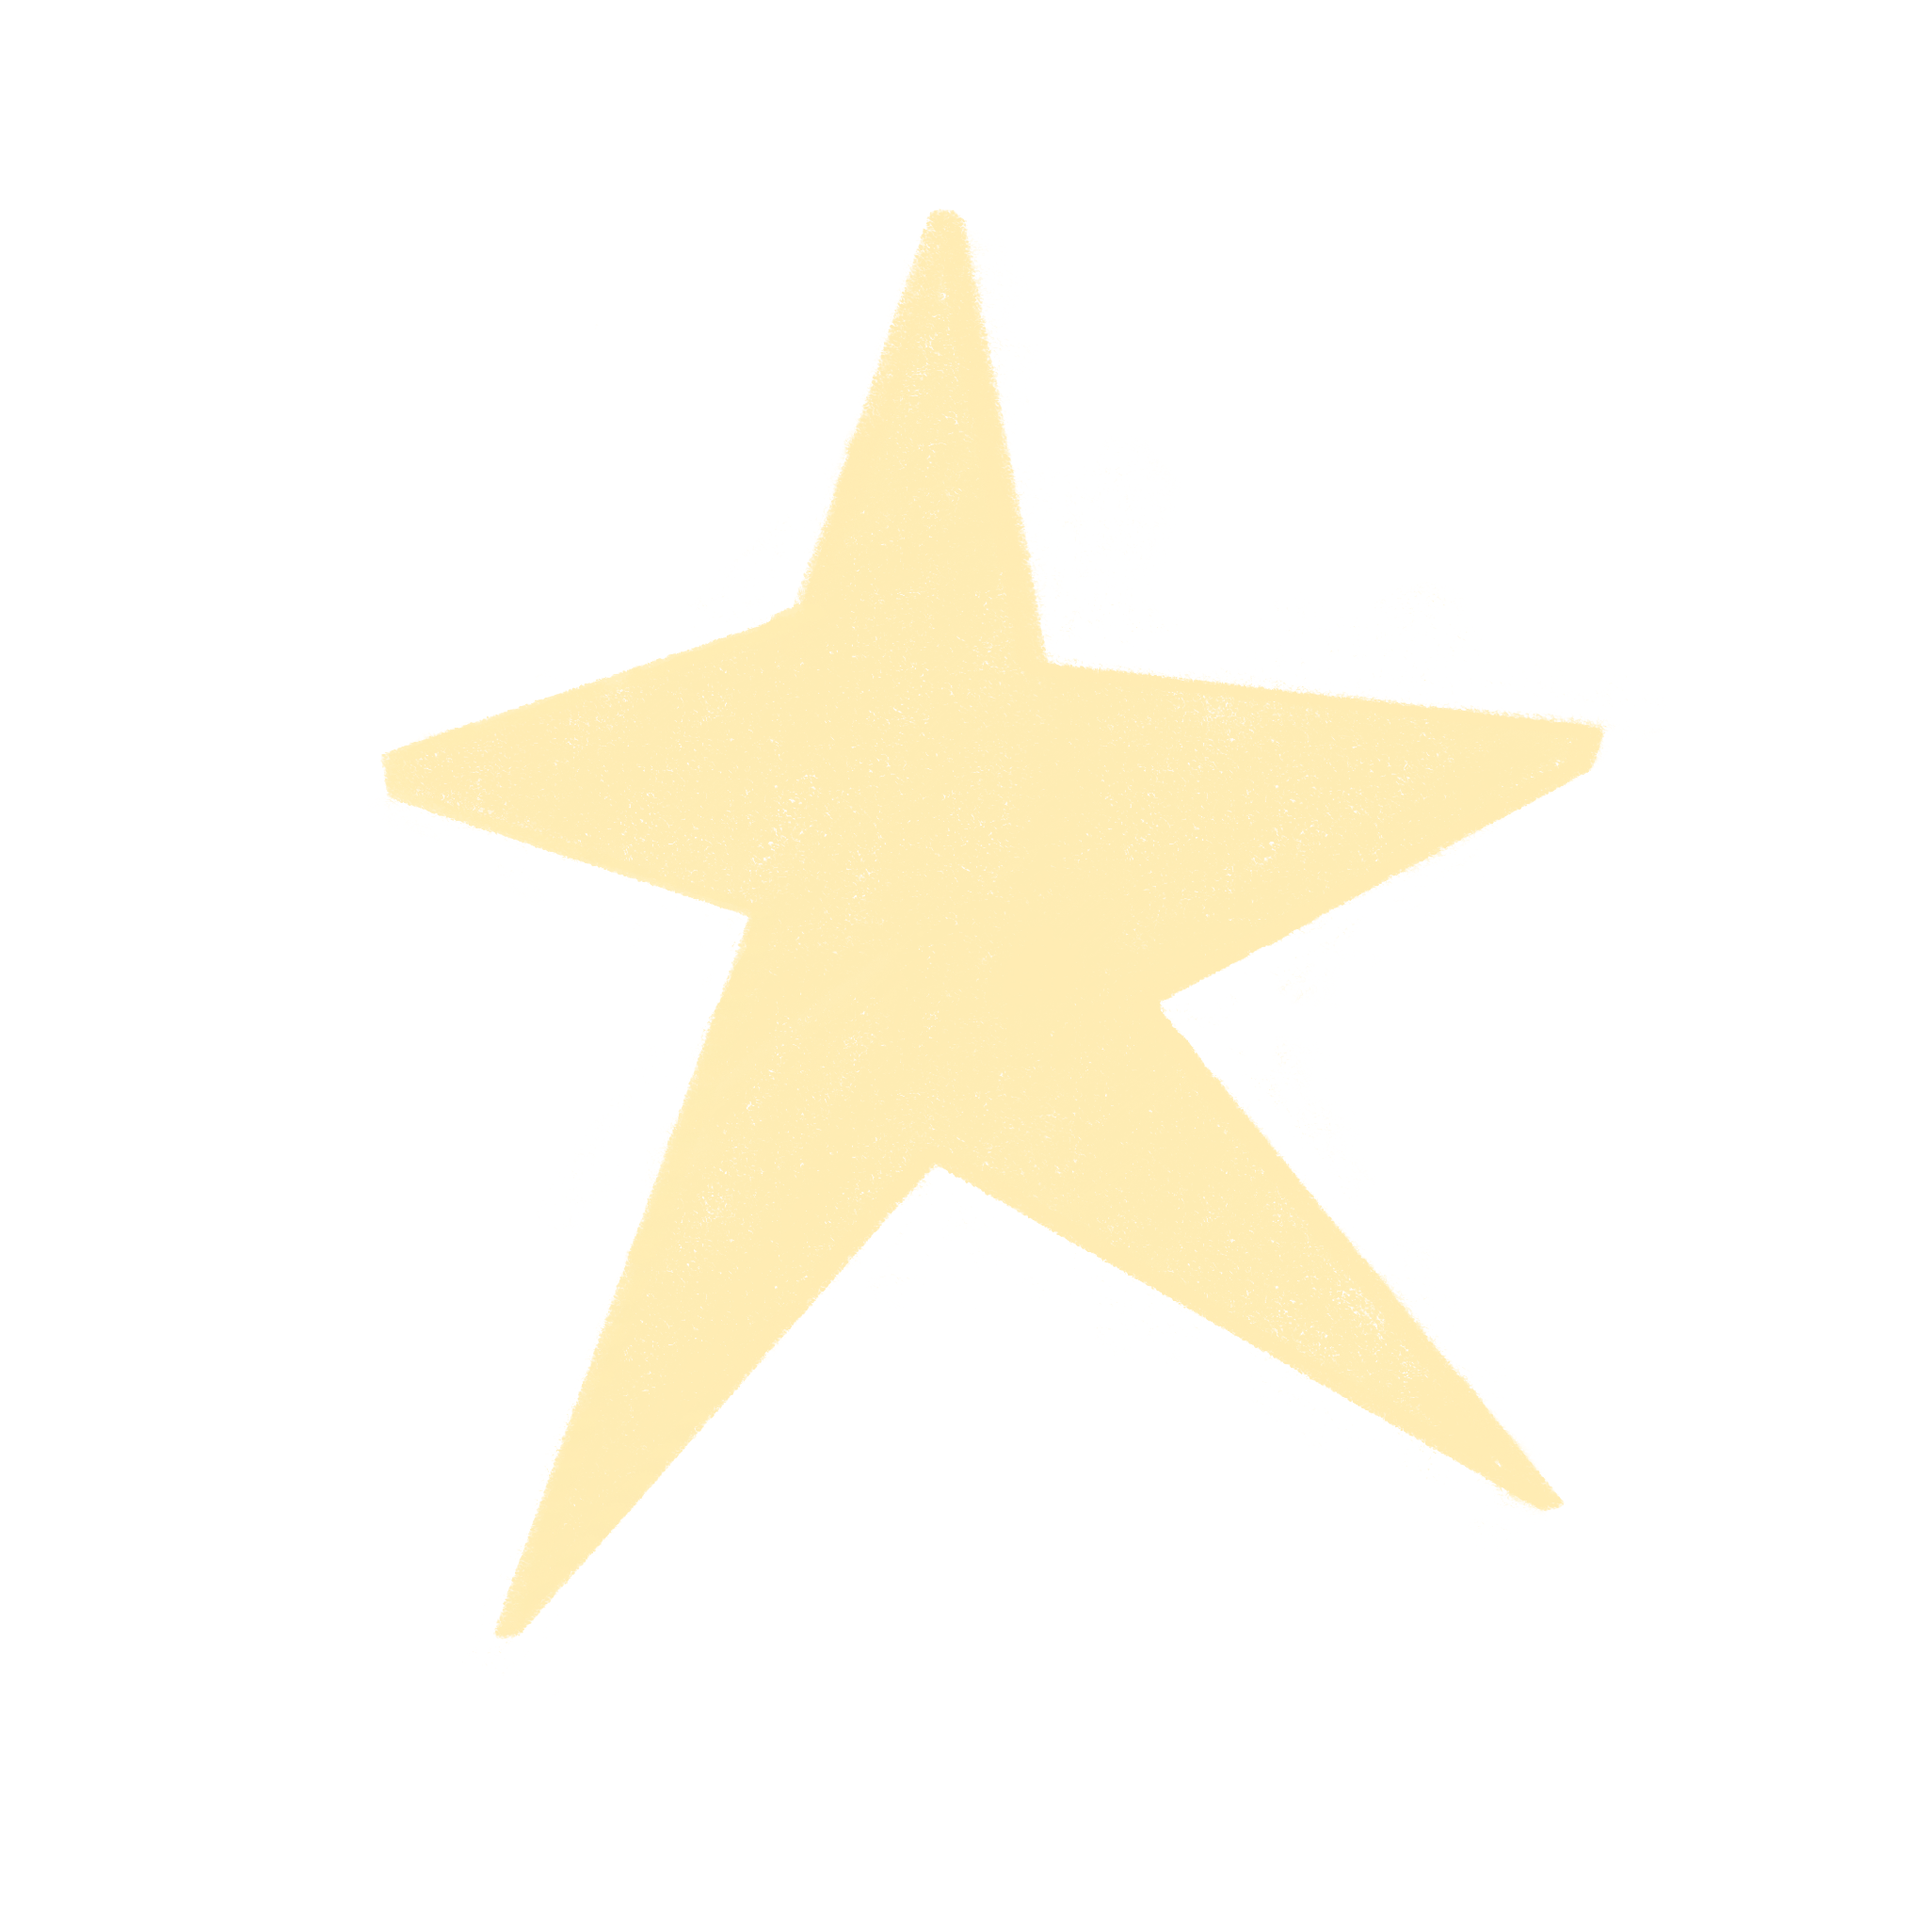
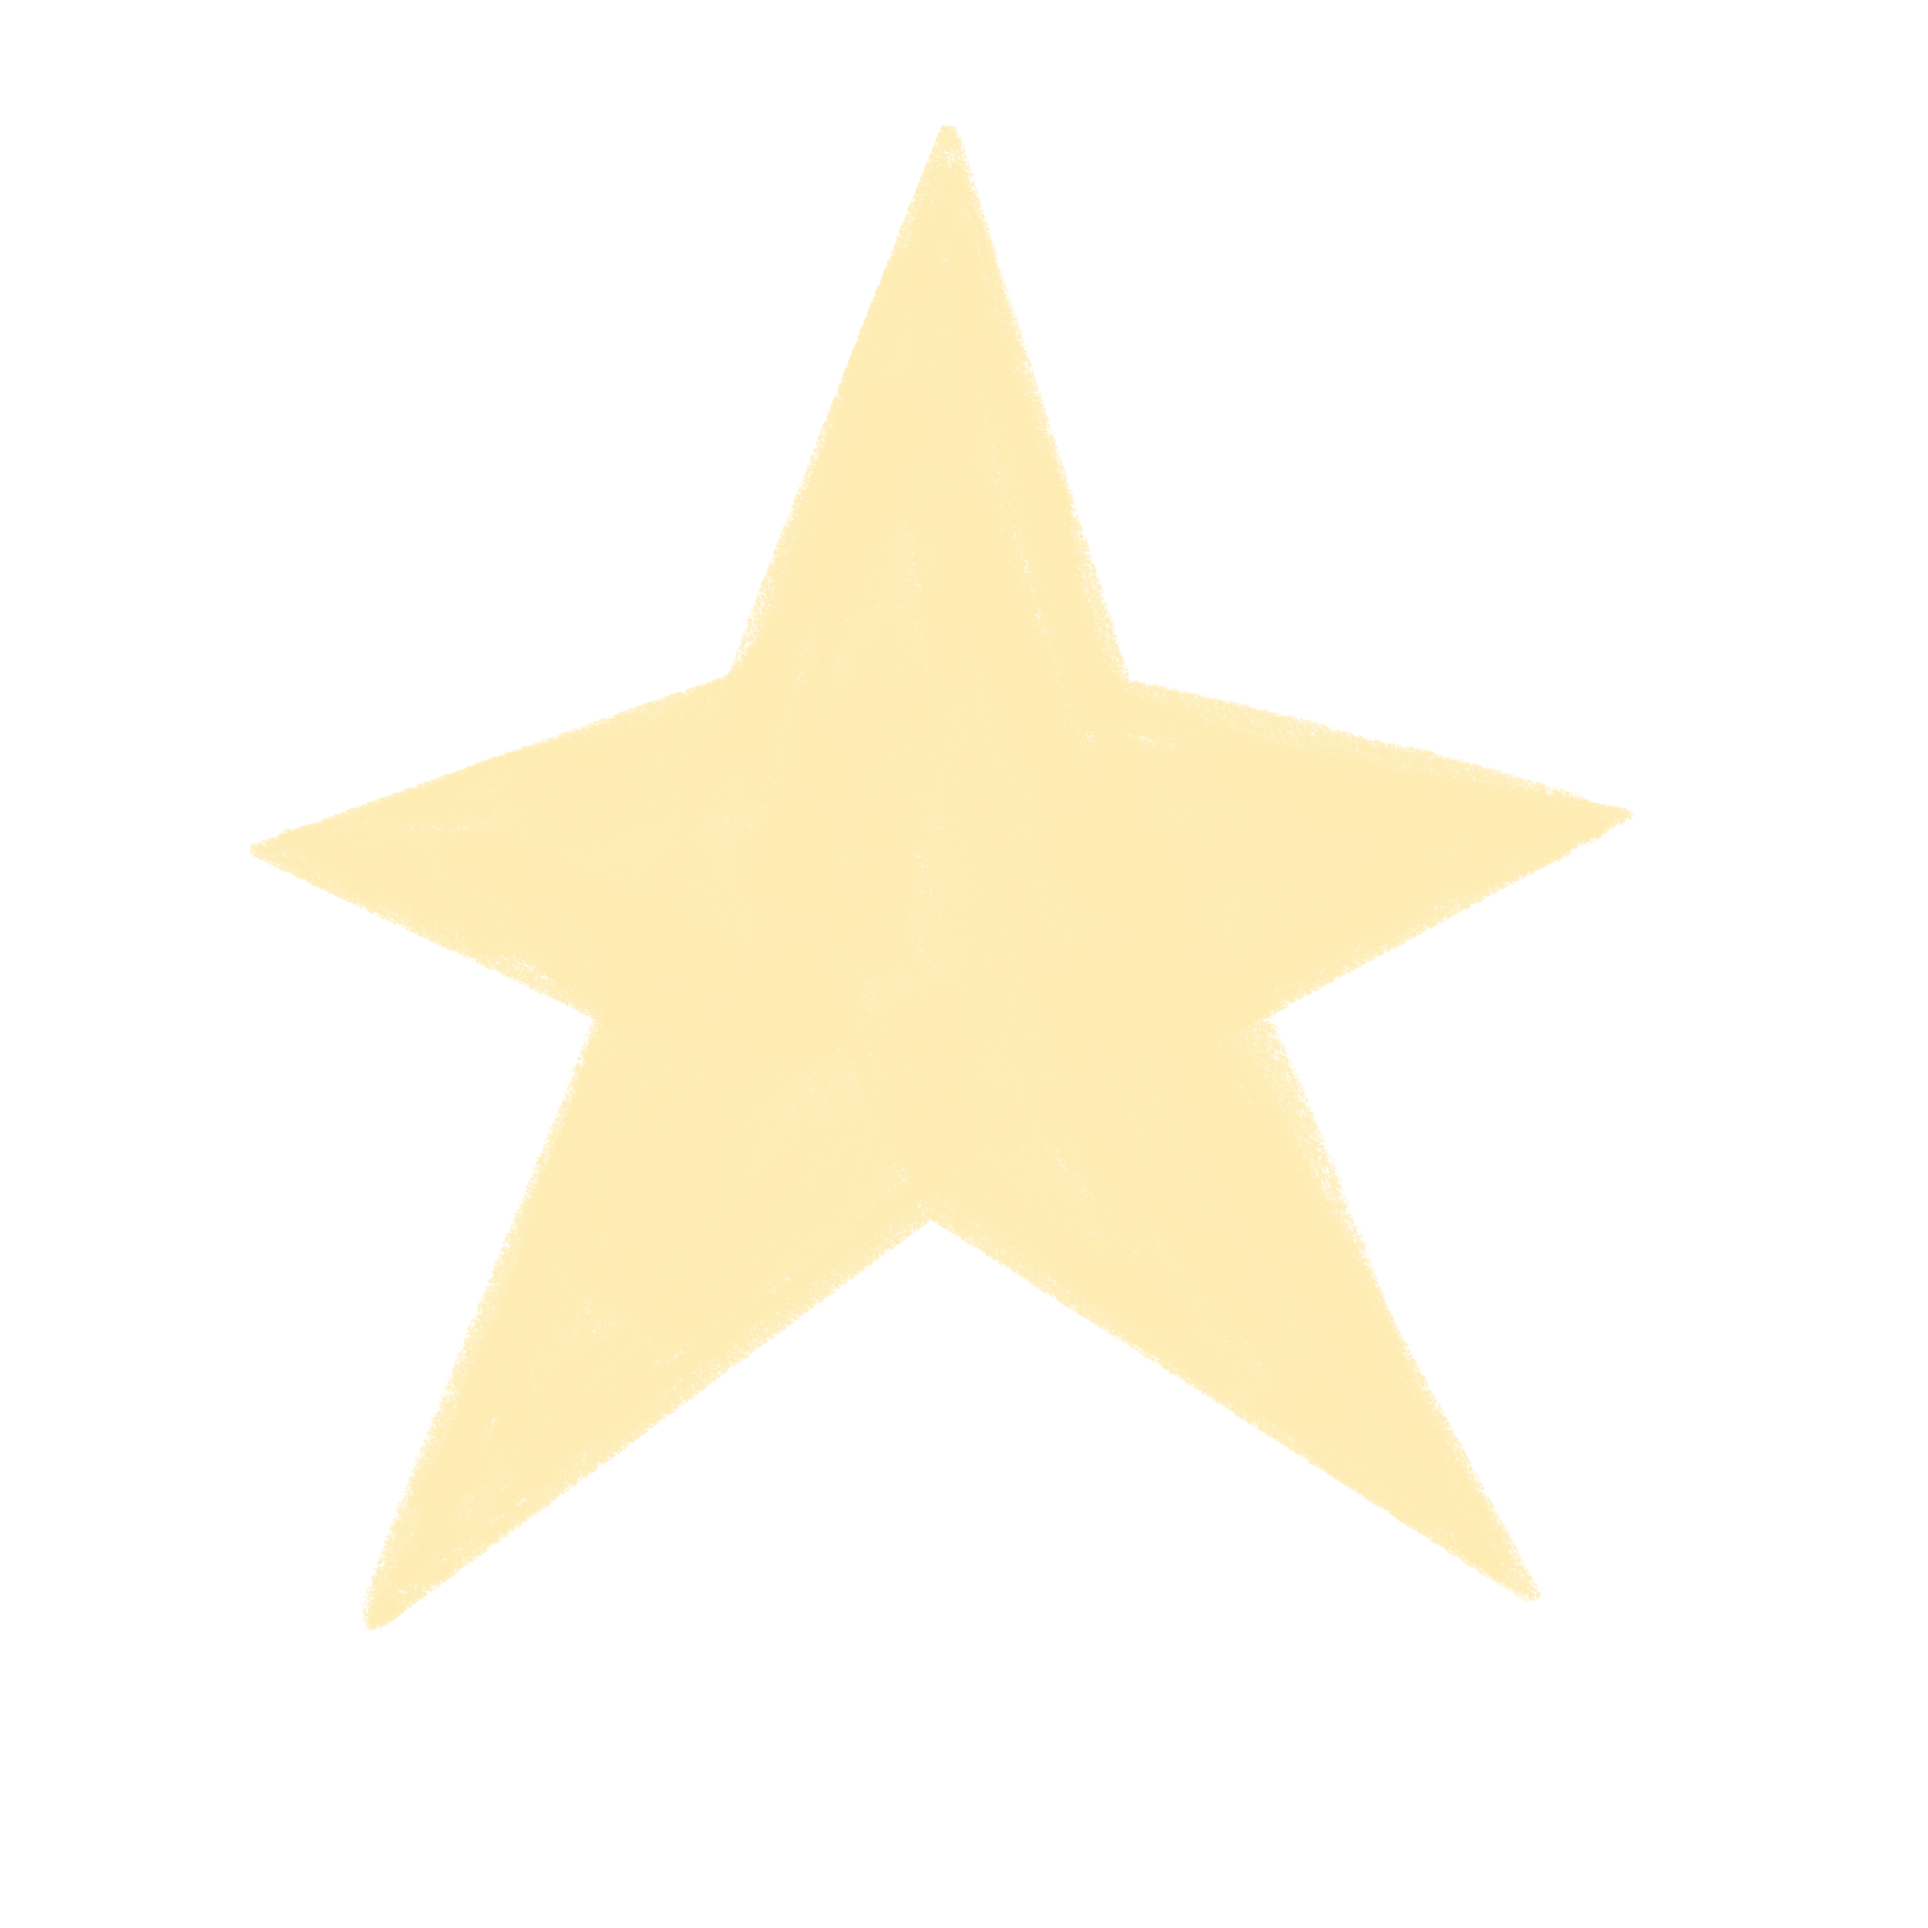
home updates

Changed region(s): [[0.125, 0.0625, 0.8438, 0.8438], [0.4062, 0.6562, 0.4375, 0.6875], [0.375, 0.6875, 0.4062, 0.7188]]

diff --git a/my-site/src/components/Home.jsx b/my-site/src/components/Home.jsx
@@ -22,7 +22,15 @@ function Home() {
             >
                 <Stars />
 
-                <div className="relative z-10 px-6 py-4 bg-[#070C1E]/50">
+                <div className="relative z-10 px-6 py-4 bg-[#070C1E]/50 text-center -translate-y-12">
+
+                    {/* Logo */}
+                    <img
+                        src="/images/logo.png"
+                        alt="Logo"
+                        className="logo-fade-in mx-auto mb-6 w-35"
+                    />
+
                     <Typewriter
                         onComplete={() => setTypingComplete(true)}
                     />

diff --git a/my-site/src/index.css b/my-site/src/index.css
@@ -63,6 +63,24 @@ body {
 
 /* HOME */
 
+.logo-fade-in {
+    opacity: 0;
+    transform: translateY(8px);
+    animation: logoFadeIn 2s ease-out forwards;
+}
+
+@keyframes logoFadeIn {
+    from {
+        opacity: 0;
+        transform: translateY(8px);
+    }
+
+    to {
+        opacity: 1;
+        transform: translateY(0);
+    }
+}
+
 .star {
   position: absolute;
   opacity: 0;
@@ -79,7 +97,7 @@ body {
   }
 
   50% {
-    transform: scale(1.25);
+    transform: scale(1.3);
   }
 }
 
